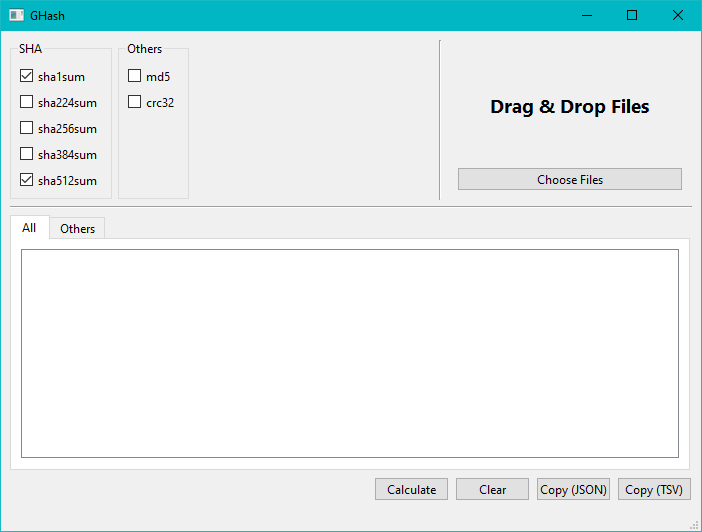
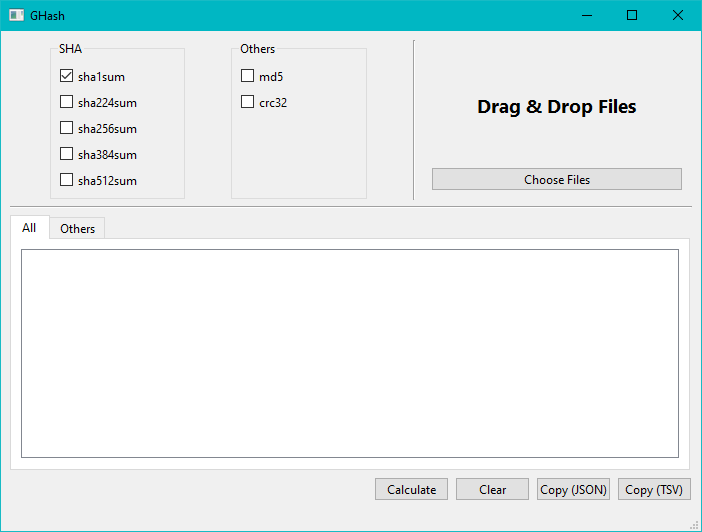
Minor UI update

diff --git a/ghash/ui_mainwindow.py b/ghash/ui_mainwindow.py
@@ -34,6 +34,10 @@ class Ui_MainWindow(object):
         self.verticalLayout_4.setObjectName(u"verticalLayout_4")
         self.horizontalLayout_3 = QHBoxLayout()
         self.horizontalLayout_3.setObjectName(u"horizontalLayout_3")
+        self.horizontalSpacer_4 = QSpacerItem(40, 20, QSizePolicy.Expanding, QSizePolicy.Minimum)
+
+        self.horizontalLayout_3.addItem(self.horizontalSpacer_4)
+
         self.groupbox_sha = QGroupBox(self.centralwidget)
         self.groupbox_sha.setObjectName(u"groupbox_sha")
         self.verticalLayout = QVBoxLayout(self.groupbox_sha)
@@ -65,6 +69,10 @@ class Ui_MainWindow(object):
 
 
         self.horizontalLayout_3.addWidget(self.groupbox_sha)
+
+        self.horizontalSpacer_3 = QSpacerItem(40, 20, QSizePolicy.Expanding, QSizePolicy.Minimum)
+
+        self.horizontalLayout_3.addItem(self.horizontalSpacer_3)
 
         self.groupbox_others = QGroupBox(self.centralwidget)
         self.groupbox_others.setObjectName(u"groupbox_others")
@@ -127,6 +135,9 @@ class Ui_MainWindow(object):
 
         self.horizontalLayout_3.addWidget(self.widget)
 
+        self.horizontalLayout_3.setStretch(1, 1)
+        self.horizontalLayout_3.setStretch(3, 1)
+        self.horizontalLayout_3.setStretch(6, 2)
 
         self.verticalLayout_4.addLayout(self.horizontalLayout_3)
 
